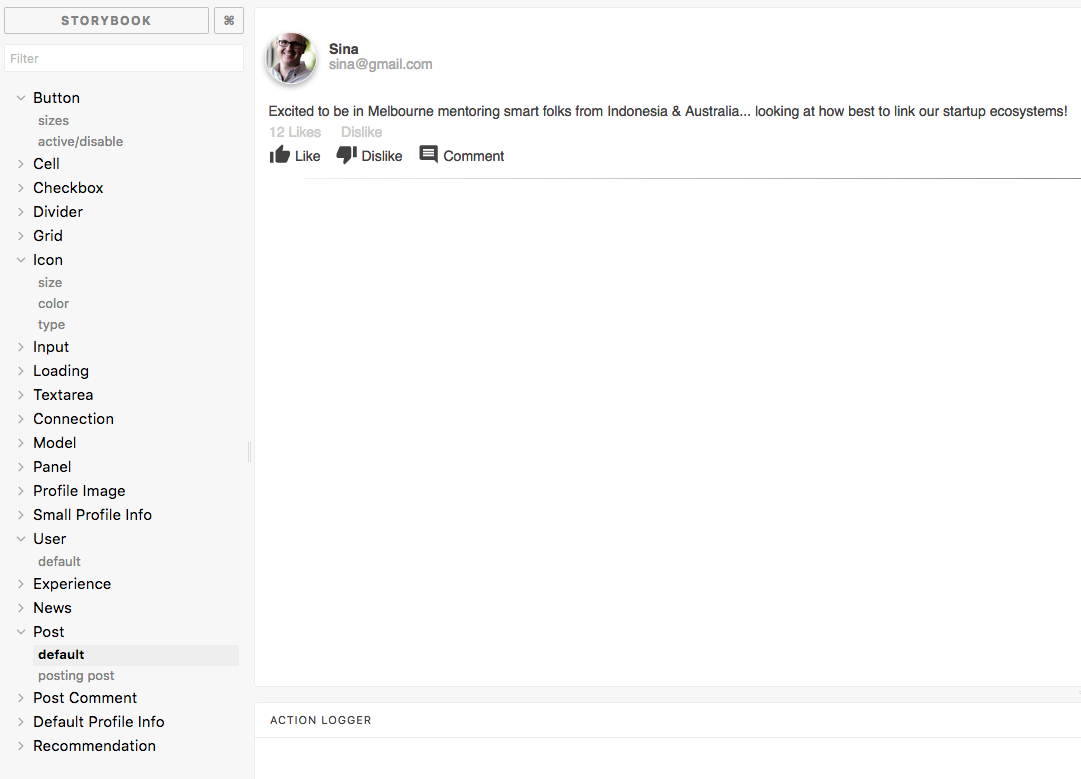
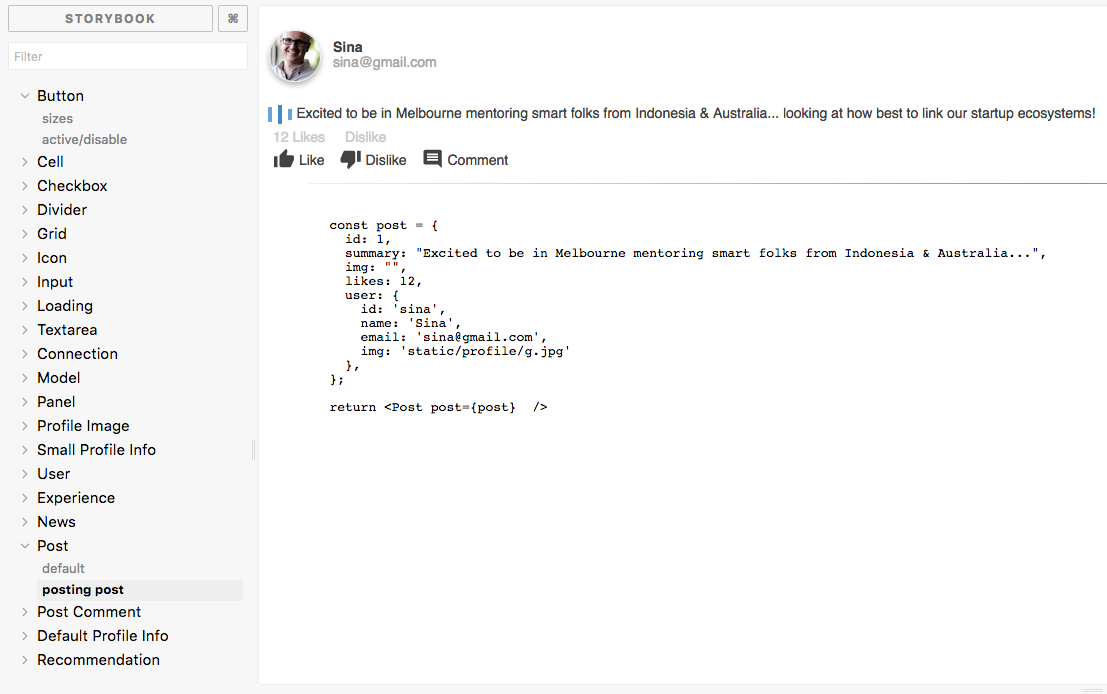
update readme

diff --git a/src/share/organisms/Post/Post.story.js b/src/share/organisms/Post/Post.story.js
@@ -17,5 +17,22 @@ story.add('default', () => (
 story.add('posting post', () => (
   <div>
     <Post post={newPost}  />
+
+    <pre>{`
+        const post = {
+          id: 1,
+          summary: "Excited to be in Melbourne mentoring smart folks from Indonesia & Australia...",
+          img: "",
+          likes: 12,
+          user: {
+            id: 'sina',
+            name: 'Sina',
+            email: 'sina@gmail.com',
+            img: 'static/profile/g.jpg'
+          },
+        };
+        
+        return <Post post={post}  />
+    `}</pre>
   </div>
 ));
